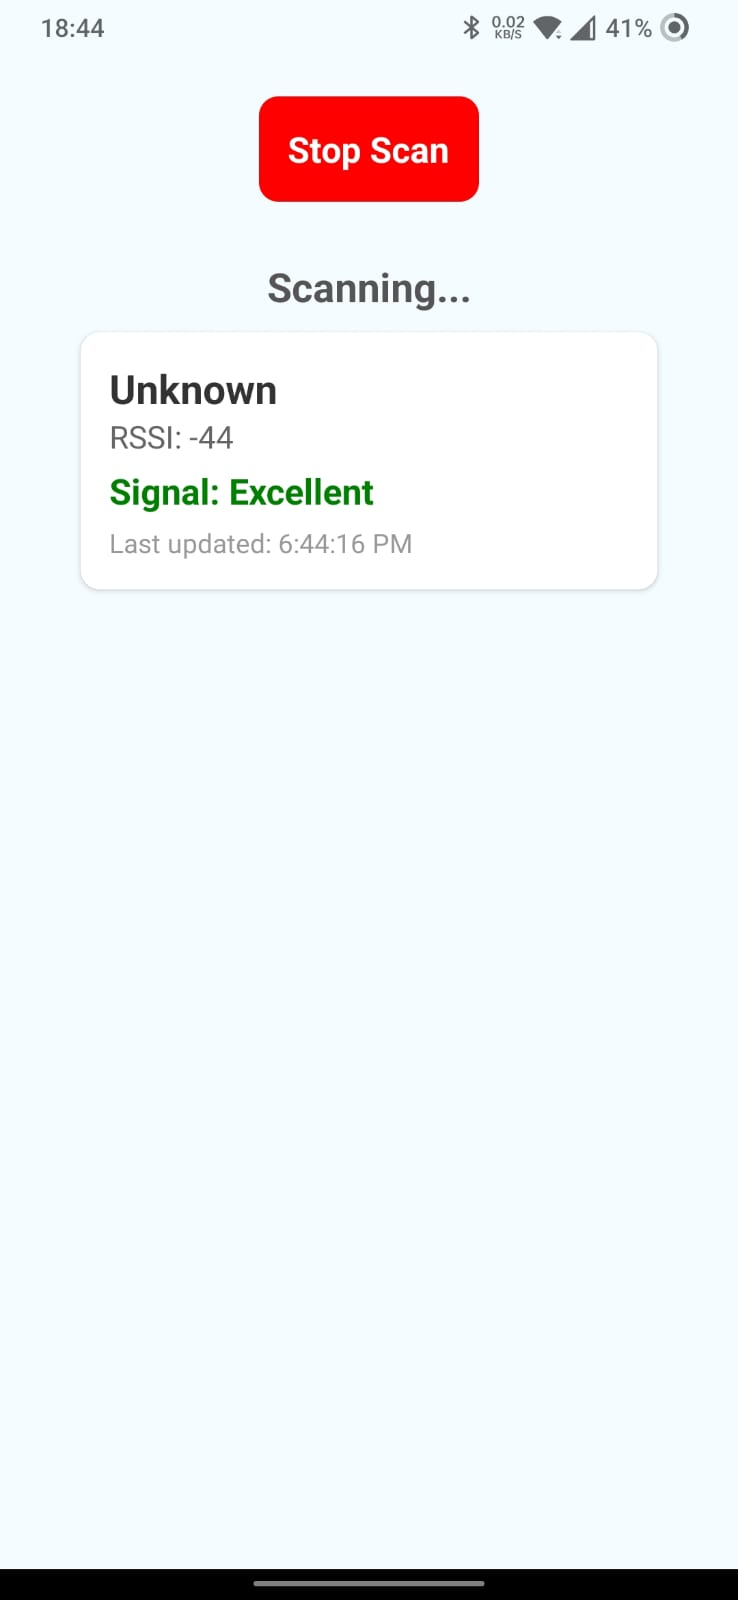
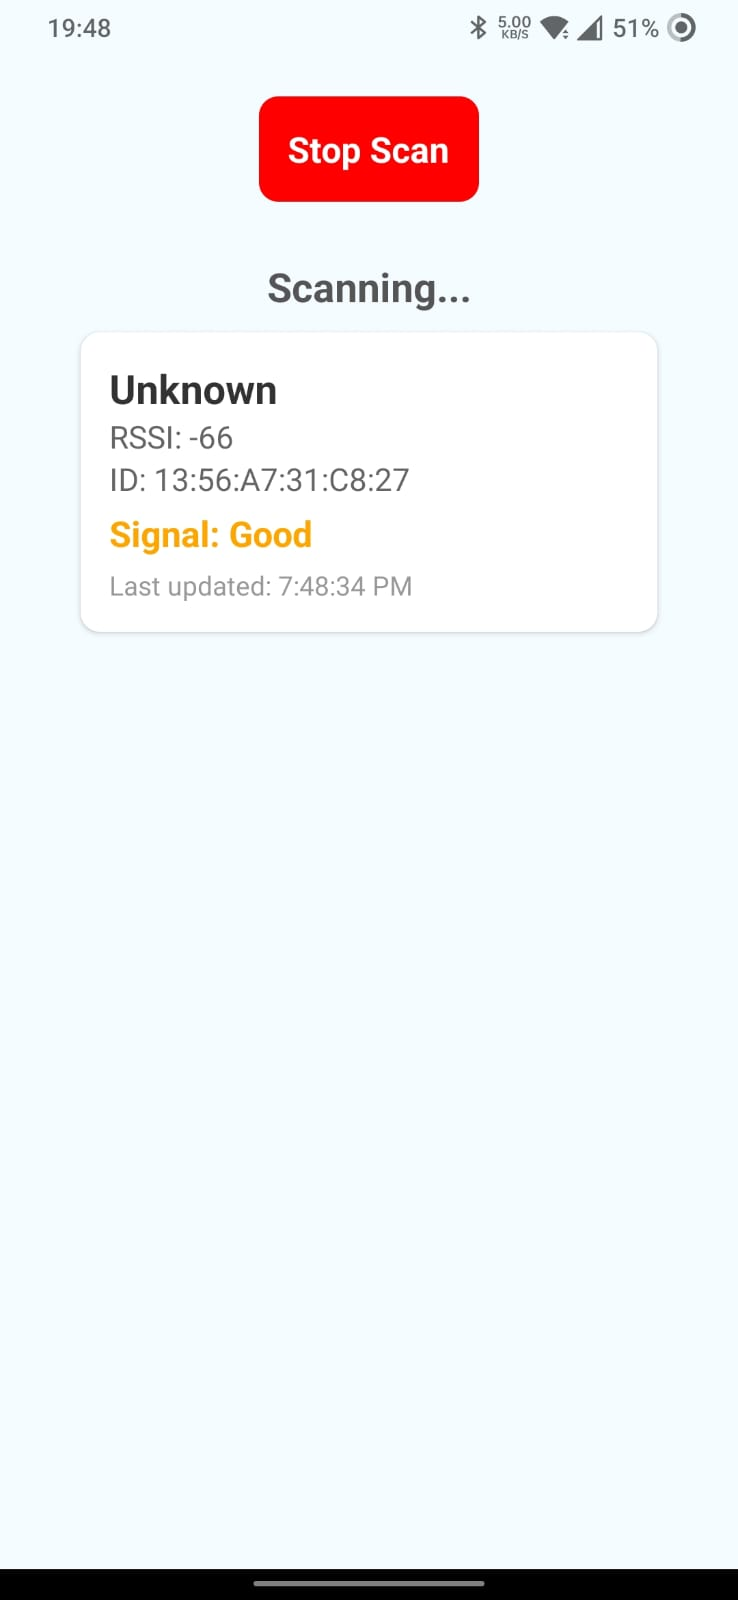
Changed Img and Added Id in device

Changed region(s): [[0.1247, 0.25, 0.561, 0.375], [0.6233, 0.0, 0.935, 0.0312], [0.0623, 0.0, 0.1558, 0.0312]]

diff --git a/App.js b/App.js
@@ -164,6 +164,8 @@ export default function App() {
     <View style={styles.device}>
       <Text style={styles.deviceName}>{item.name}</Text>
       <Text style={styles.deviceRssi}>RSSI: {item.rssi}</Text>
+      <Text style={styles.deviceRssi}>ID: {item.id}</Text>
+
       <Text
         style={[
           styles.deviceStrength,
